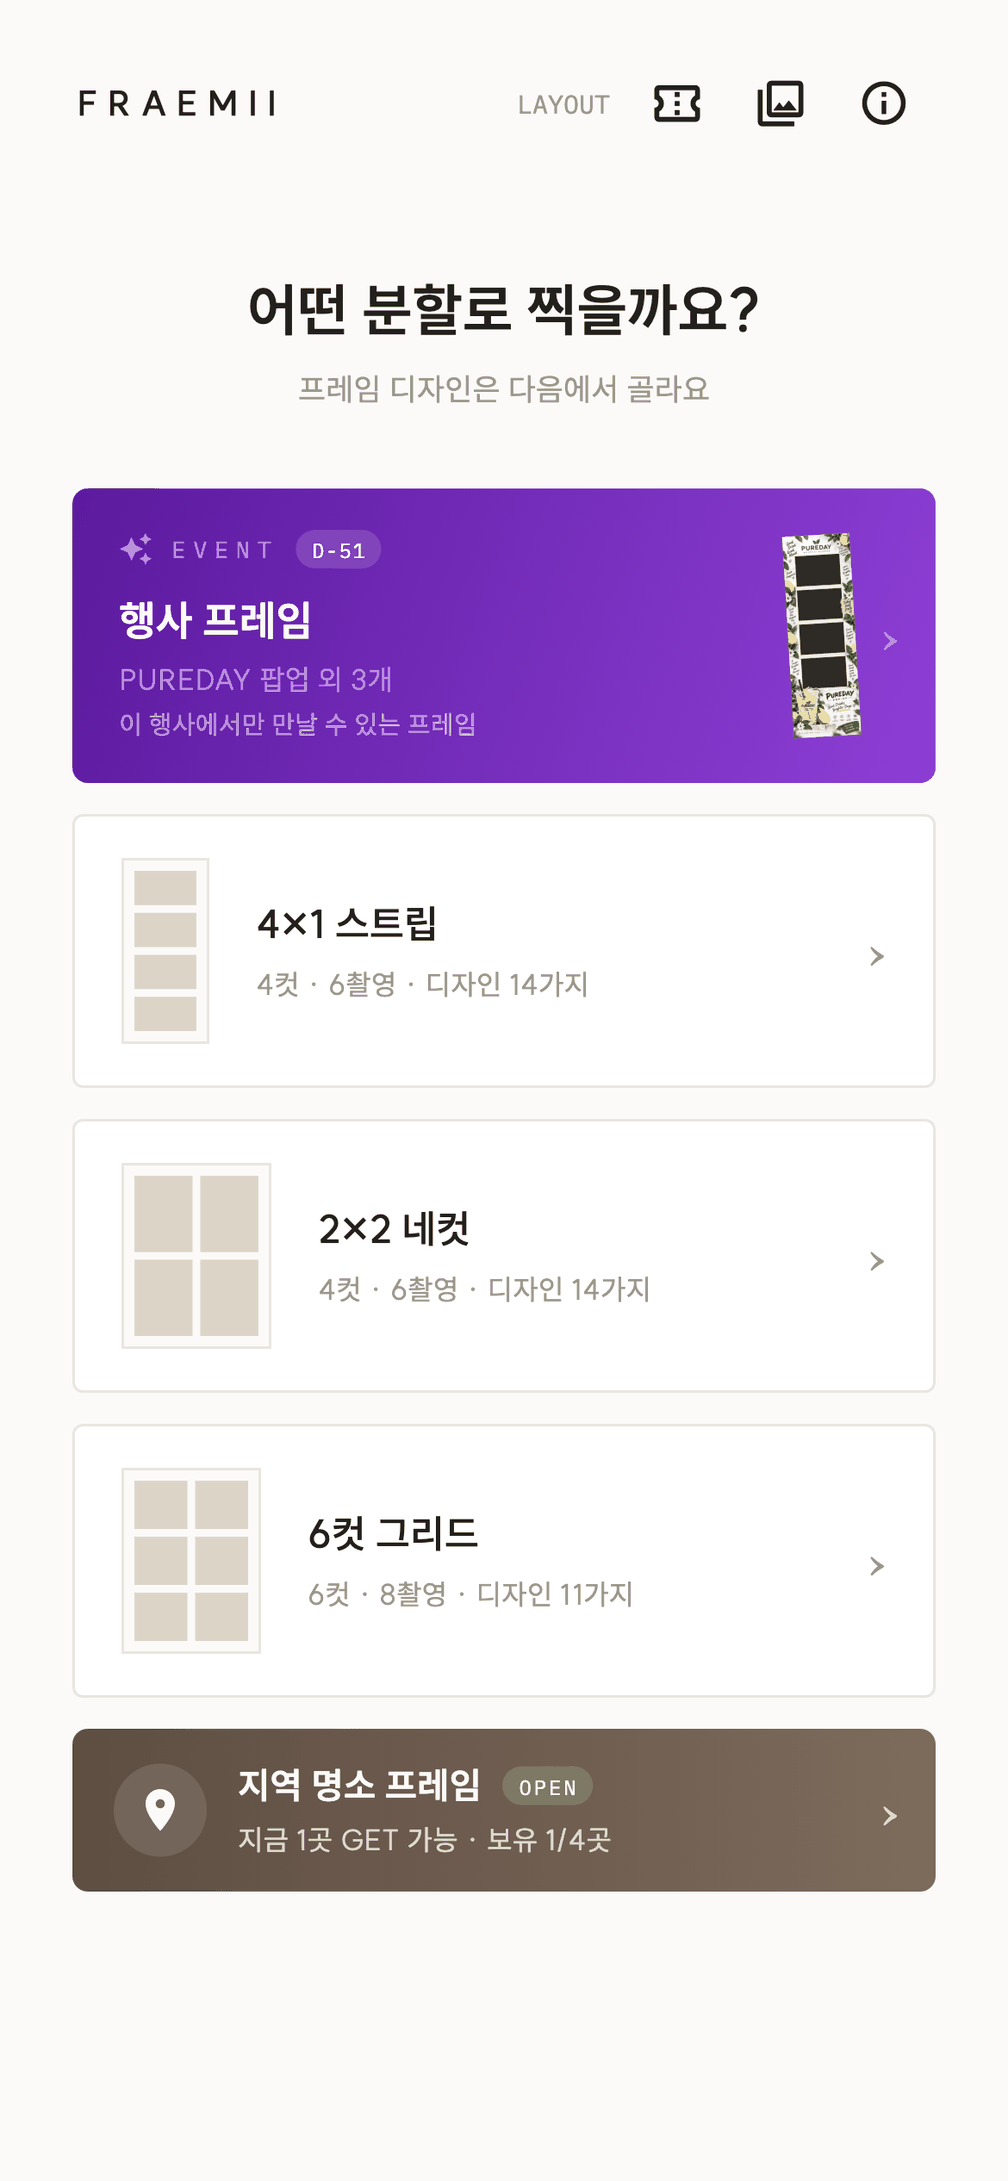
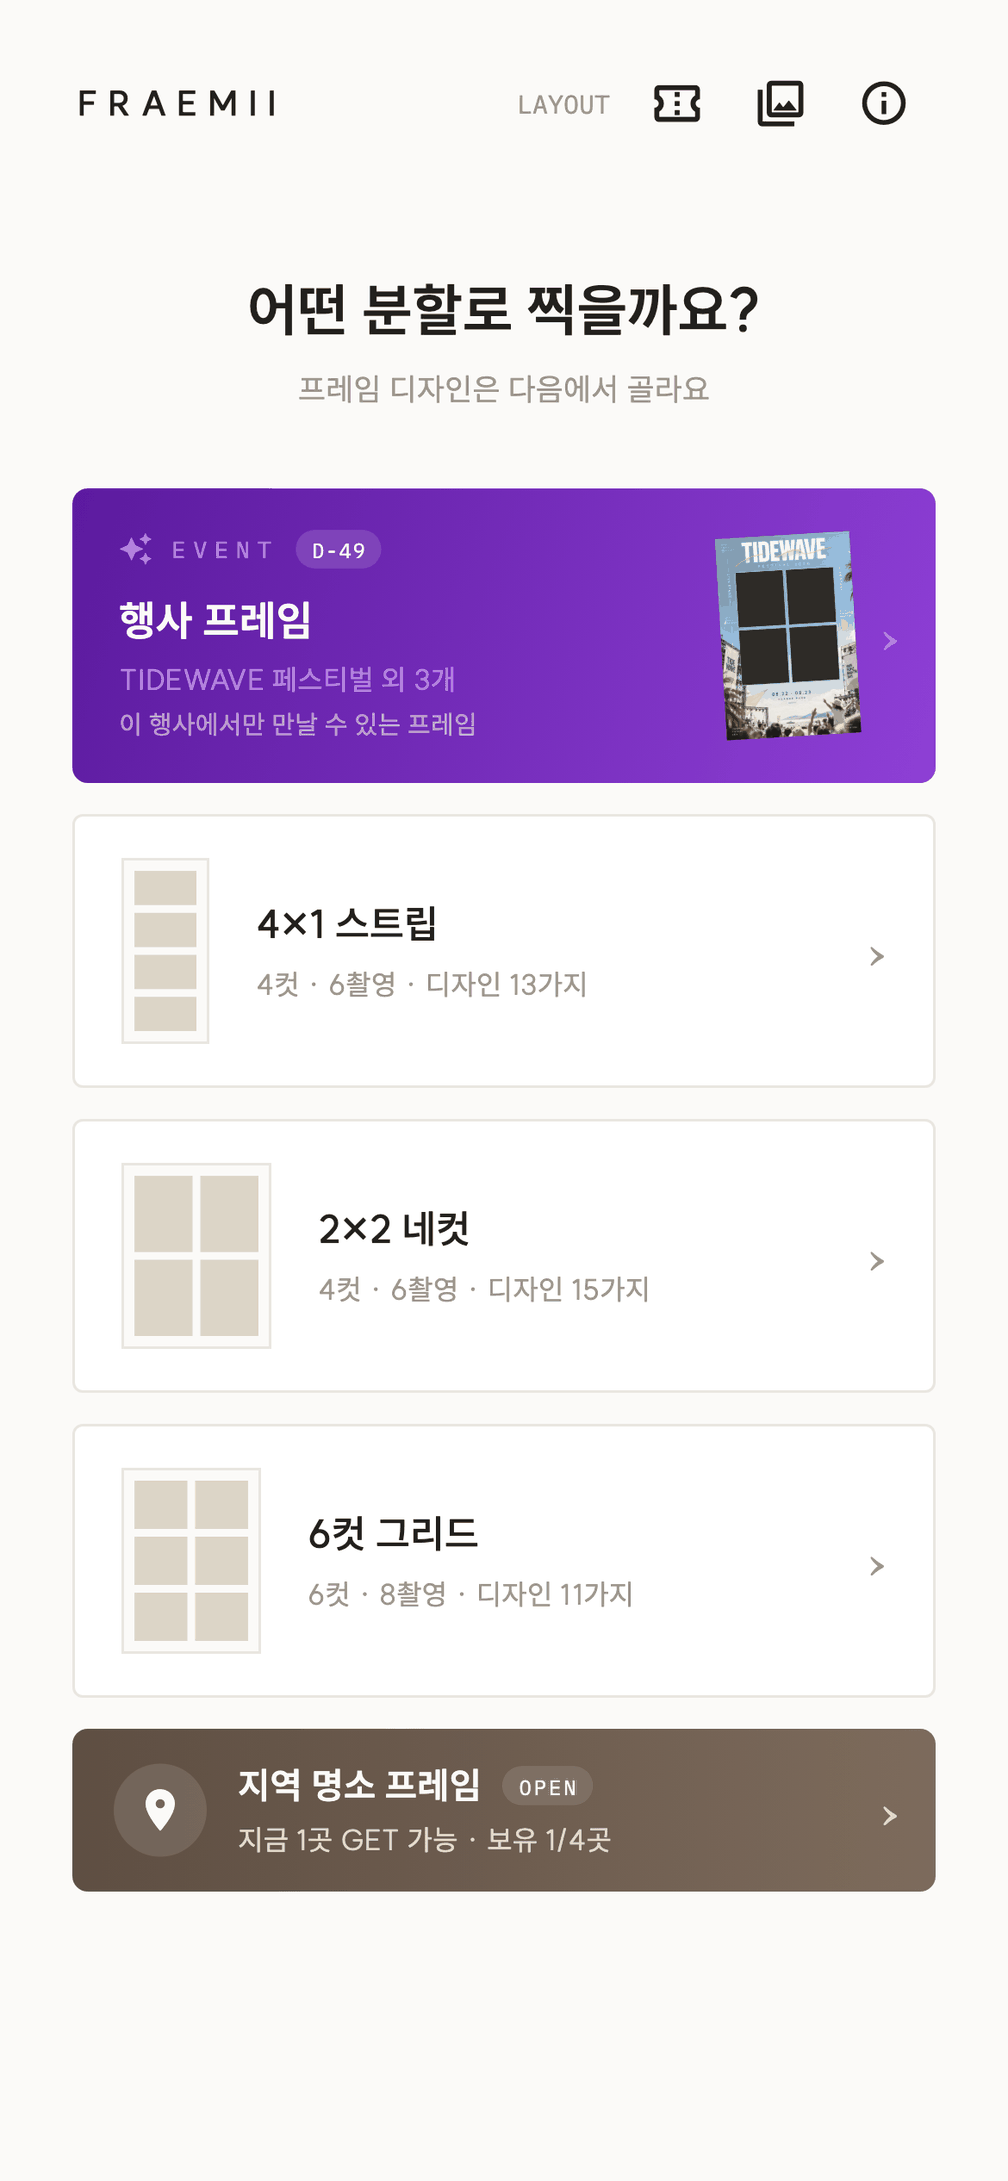
행사 프레임 예시를 PUREDAY 팝업 → TIDEWAVE 페스티벌로
앱 스크린샷과 같은 교체다. 대행사·공공기관에 보내는 페이지에서 "페스티벌 ·
콘서트 · 팝업 · 러닝" 이라 말해 놓고 예시는 음료 팝업이었다.

바뀐 이미지 셋: event.jpg(행사 프레임 고르기), layout.png(행사 티켓 카드),
stage.png(첫 무대). 기존과 같은 규격(1008×2181)이고 PNG 는 원래대로 팔레트로
저장해 용량을 맞췄다.

event-frame.html 의 "예시는 ... 팝업 스토어 디자인입니다" 와 business.html 의
대체 텍스트도 함께 고쳤다.

diff --git a/fraemii/event-frame.html b/fraemii/event-frame.html
@@ -339,7 +339,7 @@ footer{padding:26px 0 40px;color:var(--sub);font-size:11.5px;display:flex;justif
 <section>
   <div class="sec-k mono">Real screens</div>
   <h2>참가자의 폰에서 이렇게 보입니다</h2>
-  <div class="sub">앱 화면을 그대로 캡처했습니다. 예시는 실제 행사 프레임으로 조립한 팝업 스토어 디자인입니다.</div>
+  <div class="sub">앱 화면을 그대로 캡처했습니다. 예시는 실제 행사 프레임으로 조립한 음악 페스티벌 디자인입니다.</div>
   <div class="screens">
     <figure>
       <img src="screens/layout.png" alt="첫 화면 상단의 행사 티켓 카드" width="1008" height="2181">

diff --git a/fraemii/business.html b/fraemii/business.html
@@ -121,7 +121,7 @@ footer a{text-decoration:none;color:var(--accent)}
     </a>
     <a class="card event" href="./event-frame.html">
       <div class="head">
-        <img src="screens/event.jpg" alt="행사 프레임 화면 — PUREDAY 팝업 스트립, D-53" loading="eager" width="1008" height="2181">
+        <img src="screens/event.jpg" alt="행사 프레임 화면 — TIDEWAVE 페스티벌 네컷, D-49" loading="eager" width="1008" height="2181">
         <img class="two" src="screens/layout.png" alt="행사 프레임 티켓 카드" loading="eager" width="1008" height="2181">
       </div>
       <div class="body">
